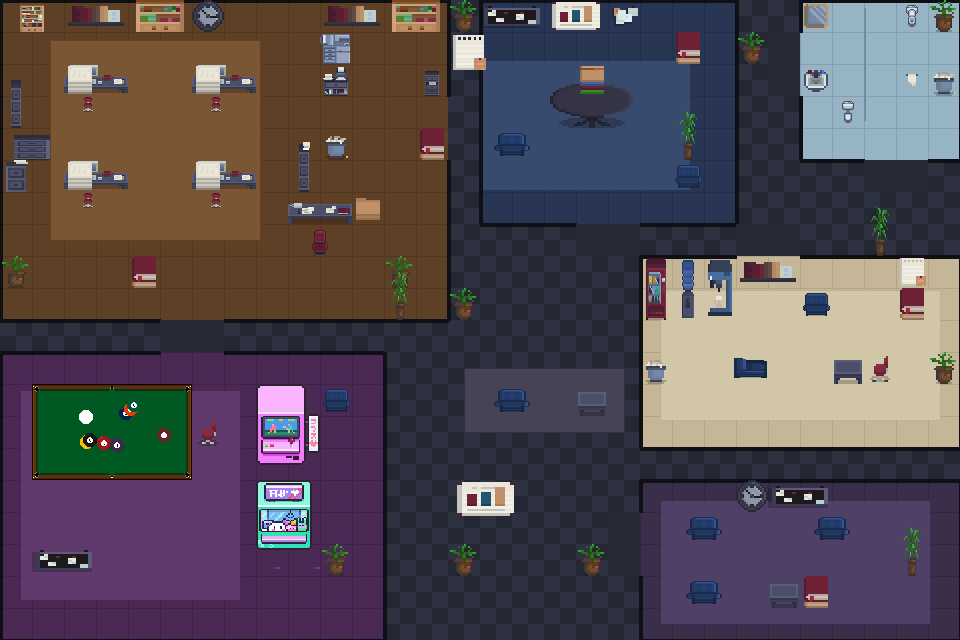
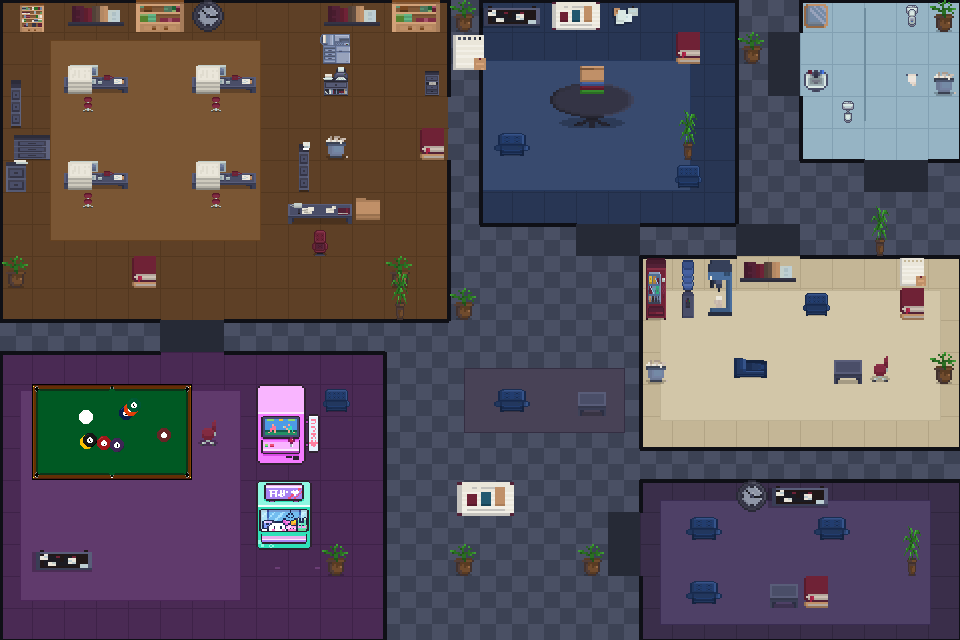
[Frontend] Lighten Hallway Floor and Stop Wasting Screen Width
Two follow-ups from feedback:

- Hallway checker floor lightened further (46,50,64)/(36,40,52) ->
  (74,80,100)/(60,66,84) per request, still darker than any room floor.
- #header/#main-row had a hard max-width:1280px, and fitStage() capped the
  stage's scale at 1.6x regardless of available space — together these
  left a lot of unused width on anything wider than a small laptop screen,
  forcing a manual browser zoom to fill the window. Cap raised to 1800px /
  2.2x so the layout actually uses the space it has.

Changed region(s): [[0.2188, 0.0, 1.0, 1.0], [0.0, 0.5, 0.1875, 0.5625], [0.4688, 0.0, 0.5, 0.0625]]

diff --git a/client/index.html b/client/index.html
@@ -20,7 +20,7 @@
   html, body { margin: 0; height: 100%; background: var(--bg); font-family: ui-monospace, 'SF Mono', Menlo, Consolas, monospace; color: var(--text); overflow: hidden; }
   #app { height: 100%; display: flex; flex-direction: column; align-items: center; padding: 14px; box-sizing: border-box; gap: 10px; background: radial-gradient(ellipse at top, #0d1018 0%, var(--bg) 60%); }
 
-  #header { width: 100%; max-width: 1280px; display: flex; align-items: center; justify-content: space-between; padding: 12px 18px; background: linear-gradient(180deg, var(--panel-bg-2), var(--panel-bg)); border: 1px solid var(--border); border-radius: 8px; box-sizing: border-box; flex-shrink: 0; box-shadow: 0 4px 16px rgba(0,0,0,0.35); }
+  #header { width: 100%; max-width: 1800px; display: flex; align-items: center; justify-content: space-between; padding: 12px 18px; background: linear-gradient(180deg, var(--panel-bg-2), var(--panel-bg)); border: 1px solid var(--border); border-radius: 8px; box-sizing: border-box; flex-shrink: 0; box-shadow: 0 4px 16px rgba(0,0,0,0.35); }
   #header .brand { display: flex; align-items: baseline; gap: 8px; }
   #header .title { font-size: 15px; font-weight: 700; letter-spacing: 0.02em; }
   #header .title::before { content: '▣'; color: var(--accent); margin-right: 6px; }
@@ -33,7 +33,7 @@
   #counts .n { color: var(--text-dim); }
   .working { color: var(--working); } .waiting { color: var(--waiting); } .idle { color: var(--idle); }
 
-  #main-row { flex-grow: 1; width: 100%; max-width: 1280px; display: flex; gap: 10px; min-height: 0; }
+  #main-row { flex-grow: 1; width: 100%; max-width: 1800px; display: flex; gap: 10px; min-height: 0; }
 
   #stage-viewport { flex-grow: 1; display: flex; align-items: center; justify-content: center; min-height: 0; min-width: 0; }
   #stage { position: relative; width: 960px; height: 640px; border-radius: 6px; overflow: hidden; background: #0a0c12; flex-shrink: 0; box-shadow: 0 12px 40px rgba(0,0,0,0.55), 0 0 0 1px var(--border); }
@@ -147,7 +147,7 @@ for (const { name, x, y } of ROOM_LABELS) {
 }
 
 function fitStage() {
-  const scale = Math.min(viewport.clientWidth / 960, viewport.clientHeight / 640, 1.6);
+  const scale = Math.min(viewport.clientWidth / 960, viewport.clientHeight / 640, 2.2);
   stage.style.transform = `scale(${scale})`;
 }
 window.addEventListener('resize', fitStage);

diff --git a/scripts/generate-office.py b/scripts/generate-office.py
@@ -51,7 +51,7 @@ draw = ImageDraw.Draw(scene)
 # sofa/rug were cleared out of the hallway.
 for x in range(0, W, 16):
     for y in range(0, H, 16):
-        c = (46,50,64,255) if ((x//16 + y//16) % 2 == 0) else (36,40,52,255)
+        c = (74,80,100,255) if ((x//16 + y//16) % 2 == 0) else (60,66,84,255)
         draw.rectangle([x,y,x+15,y+15], fill=c)
 
 WALL = (15,16,22,255); WALLW = 4
